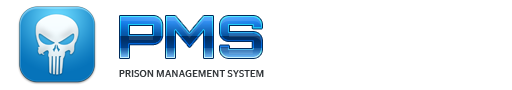
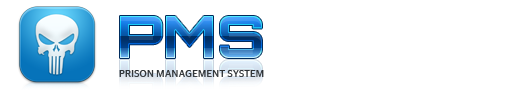
such commit very code
WOW

Changed region(s): [[0.2188, 0.6444, 0.5312, 0.8889], [0.0625, 0.9111, 0.1562, 0.9333]]

diff --git a/diningwindow.cpp b/diningwindow.cpp
@@ -10,14 +10,6 @@ DiningWindow::DiningWindow(QWidget *parent) :
     ui->pushButton_Menu->setChecked(true);
     ui->stackedWidget->setCurrentIndex(0);
 
-    /*QSqlDatabase db = Database::getDatabase();
-
-    QSqlQueryModel *model = new QSqlQueryModel;
-    model->setQuery("SELECT ID AS ID, Lastname AS \"Last name\", Midname AS \"Middle name\", Firstname as \"First name\", "
-                    "Gender AS Gender, DOB AS DOB, Hair AS \"Hair color\", Eyes AS \"Eye color\", "
-                    "Eth AS \"Ethnicity\", Addr AS \"Home address\", Reason AS Reason, Custody AS Custody, "
-                    "Availability AS Availability, BookIn AS Bookin, BookOut AS Bookout FROM INMATE", db);
-    ui->tableView->setModel(model);*/
     on_pushButton_Menu_clicked();
     curView = VIEW_MENU;
     ui->pushSearch->setEnabled(true);
@@ -34,12 +26,6 @@ void DiningWindow::on_pushButton_viewInmates_clicked(bool checked)
 {
     ui->stackedWidget->setCurrentIndex(0);
     QSqlDatabase db = Database::getDatabase();
-/*
-    QSqlTableModel *model = new QSqlTableModel(this, db);
-    model->setTable("INMATE");
-    model->select();
-    ui->tableView->setModel(model);
-*/
 
     QSqlQueryModel *model = new QSqlQueryModel;
     model->setQuery("SELECT ID AS 'ID', Lastname AS 'Last name', Midname AS 'Middle name', Firstname as 'First name', "
@@ -62,10 +48,6 @@ void DiningWindow::on_pushButton_viewOfficers_clicked(bool checked)
 {
     ui->stackedWidget->setCurrentIndex(0);
     QSqlDatabase db = Database::getDatabase();
-
-    /*QSqlQueryModel *model = new QSqlQueryModel;
-    model->setQuery("SELECT * FROM OFFICER", db);
-    ui->tableView->setModel(model);*/
 
     QSqlQueryModel *model = new QSqlQueryModel;
     model->setQuery("SELECT * FROM OFFICER", db);
@@ -147,11 +129,9 @@ void DiningWindow::on_pushButton_4_clicked()
 
 void DiningWindow::on_pushButton_Add_clicked()
 {
-    // model->insertRow(model->rowCount());
     newmenuform * menu = new newmenuform(0, 0);
     connect(menu, &newmenuform::exec_query, this, &DiningWindow::exec_query);
     menu->setWindowFlags(Qt::MSWindowsFixedSizeDialogHint);
-    //connect(menu, &newmenuform::exec_query, this, &DiningWindow::exec_query);
     menu->show();
 }
 
@@ -166,7 +146,6 @@ void DiningWindow::on_pushButton_Modify_clicked()
     newmenuform * menu = new newmenuform(0, 1, ID);
     connect(menu, &newmenuform::exec_query, this, &DiningWindow::exec_query);
     menu->setWindowFlags(Qt::MSWindowsFixedSizeDialogHint);
-    //connect(menu, &newmenuform::exec_query, this, &DiningWindow::exec_query);
     menu->show();
 }
 
@@ -224,8 +203,6 @@ void DiningWindow::on_Delete_clicked()
     QSqlQuery query(db);
     QString Squery = "DELETE FROM DINING WHERE ID = '" + ID + "'";
     query.exec(Squery);
-
-    //qDebug() << Squery;
 
     query.exec("INSERT INTO LOG (department, logtime, content) VALUES ('Dining', "
             "CAST(N'" + QDateTime::currentDateTime().toString("yyyy-MM-dd hh:mm") + "' AS Datetime), "

diff --git a/rehabform.cpp b/rehabform.cpp
@@ -47,16 +47,8 @@ void RehabForm::on_pushAdd_clicked()
 
 void RehabForm::on_pushDelete_clicked()
 {
-   /* model->removeRow(ui->tableView->currentIndex().row());
-    QSqlQuery satan_approves;
-    QString log = "INSERT INTO LOG (department, logtime, content) VALUES ('Rehabilitation', "
-            "CAST(N'" + QDateTime::currentDateTime().toString("yyyy-MM-dd hh:mm") + "' AS Datetime), "
-            "N'Record deleted.')";
-    satan_approves.prepare(log);
-    satan_approves.exec();*/
-
     QMessageBox::StandardButton reply;
-      reply = QMessageBox::question(this, "Delete", "Are you sure you want to delete this line?",
+      reply = QMessageBox::question(this, "Delete", "Are you sure you want to delete this entry?",
                                     QMessageBox::Yes|QMessageBox::No);
       if (reply == QMessageBox::Yes)
       {
@@ -70,7 +62,10 @@ void RehabForm::on_pushDelete_clicked()
 
           QSqlQuery query(db);
           query.exec("DELETE FROM REHABILITATION WHERE InmateID = '" + IDInm + "'");
-
+          QString log = "INSERT INTO LOG (department, logtime, content) VALUES ('Rehabilitation', "
+                  "CAST(N'" + QDateTime::currentDateTime().toString("yyyy-MM-dd hh:mm") + "' AS Datetime), "
+                  "N'Record deleted.')";
+          query.exec(log);
           on_pushButton_16_clicked();
       }
 }
@@ -148,11 +143,10 @@ void RehabForm::execQuery(QString Squery)
 
     on_pushButton_16_clicked();
 
-    /*QSqlQuery satan_approves(db);
-    QString log = "INSERT INTO LOG (department, logtime, content) VALUES ('Dining', "
+    QString log = "INSERT INTO LOG (department, logtime, content) VALUES ('Rehabilitation', "
             "CAST(N'" + QDateTime::currentDateTime().toString("yyyy-MM-dd hh:mm") + "' AS Datetime), "
-            "N'Record added.')";
-    //satan_approves.exec(log);*/
+            "N'Record changed.')";
+    query.exec(log);
 }
 
 void RehabForm::on_tableView_clicked(const QModelIndex &index)

diff --git a/mainwindow.cpp b/mainwindow.cpp
@@ -154,17 +154,14 @@ void MainWindow::SetPermission(int OfficerType)
 
 void MainWindow::on_toolButton_Dashboard_clicked()
 {
-    //qDebug() << "Dashboard";
     if (sub_dashboard == NULL) {
         if (m_OfficerType == RELATIVETYPE)
         {
             dashboard = new DashboardWindow(0, true, m_ID);
-            //qDebug() << "Is releative " + m_ID;
         }
         else
         {
             dashboard = new DashboardWindow(0, false);
-            //qDebug() << "Is not relative";
         }
         sub_dashboard = ui->mdiArea->addSubWindow(dashboard, Qt::FramelessWindowHint);
         dashboard->showMaximized();
@@ -265,4 +262,20 @@ void MainWindow::details_closed()
 
 void MainWindow::echo_status(QString content) {
     ui->statusBar->showMessage(content, 5000);
+}
+
+void MainWindow::on_pushButton_clicked()
+{
+    ui->frame->setStyleSheet("QFrame { background-image: url(:/images/banner_ee.png);"
+                             "background-repeat:no-repeat; }");
+    ui->graphicsView->setStyleSheet("border-image: url(:/images/doge.jpeg);"
+                                    "border-radius: 5px;");
+}
+
+void MainWindow::on_pushButton_2_clicked()
+{
+    ui->frame->setStyleSheet("QFrame { background-image: url(:/images/banner.png);"
+                             "background-repeat:no-repeat; }");
+    ui->graphicsView->setStyleSheet("border-image: url(:/images/generic_user.jpg);"
+                                    "border-radius: 5px;");
 }

diff --git a/healthcarewindow.cpp b/healthcarewindow.cpp
@@ -17,9 +17,6 @@ HealthcareWindow::HealthcareWindow(QWidget *parent) :
     ui->stackedWidget->setCurrentIndex(0);
 
     QSqlDatabase db = Database::getDatabase();
-//    model = new QSqlTableModel(this, db);
-//    model->setTable("MEDCHECKS");
-//    model->select();
 
     on_pushButton_HealthRecord_clicked();
 
@@ -152,8 +149,6 @@ void HealthcareWindow::on_pushAccept_clicked()
             + "', '" + ui->date->text() + " " + ui->time->text().left(ui->time->text().size() - 3)
             + "', NULL, NULL, N'" + ui->remarks->toPlainText() + "')";
 
-    qDebug() << QSQuery;
-
     query.exec(QSQuery);
 
     query.exec("INSERT INTO LOG (department, logtime, content) VALUES ('Healthcare', "
@@ -181,7 +176,6 @@ void HealthcareWindow::on_pushButton_HealthRecord_clicked()
                     "`medchecks`.`Urgency` AS `Urgency`, "
                     "`medchecks`.`Condi` AS `Inmate health condition`, "
                     "`medchecks`.`Remarks` AS `Remarks` FROM `pms`.`medchecks`;";
-    qDebug() << query;
 
     qmodel->setQuery(query, db);
 
@@ -221,8 +215,6 @@ void HealthcareWindow::on_pushButton_19_clicked()
                     "`medchecks`.`Condi` AS `Inmate health condition`, "
                     "`medchecks`.`Remarks` AS `Remarks` FROM `pms`.`medchecks` "
                     "WHERE `medchecks`.`Urgency` = N'High';";
-
-    qDebug() << query;
 
     qmodel->setQuery(query, db);
 

diff --git a/newinmateform.cpp b/newinmateform.cpp
@@ -76,7 +76,6 @@ void newinmateform::on_pushButton_4_clicked()
            if(image.isNull())
            {
                QMessageBox::critical(this, "Error", "Failed to display image!");
-               // return;
            }
            QGraphicsScene* scene = new QGraphicsScene();
            QPixmap* item = new QPixmap(QPixmap::fromImage(image));
@@ -100,7 +99,6 @@ void newinmateform::on_pushButton_2_clicked()
                 "N'" + ui->txtEth->text() +"', N'" + ui->txtAddress->text() +"', N'" + ui->txtReason->text() +"', "
                 "N'" + ui->txtCustody->text() +"', N'" + ui->cmbAvailable->currentText() + "' ,CAST(N'" + ui->deBookin->text() + "' AS Datetime), "
                 "CAST(N'" + ui->deBookout->text() + "' AS Datetime));";
-        //qDebug() << query;
     }
     else if (mode == 1)
     {
@@ -114,7 +112,6 @@ void newinmateform::on_pushButton_2_clicked()
                 "WHERE `ID` = N'" + workingID + "';";
     }
     emit add_new_inmate(query);
-    qDebug() << query;
     this->close();
 }
 

diff --git a/entryreleaseform.cpp b/entryreleaseform.cpp
@@ -44,7 +44,6 @@ void EntryReleaseForm::on_pushButton_3_clicked()
 
 void EntryReleaseForm::on_pushButton_2_clicked()
 {
-    // model->insertRow(model->rowCount());
     newinmateform* nif = new newinmateform(0, 0, 0);
     connect(nif, &newinmateform::add_new_inmate, this, &EntryReleaseForm::add_inmate_triggered);
     nif->setWindowFlags(Qt::MSWindowsFixedSizeDialogHint);

diff --git a/mainwindow.h b/mainwindow.h
@@ -49,6 +49,10 @@ private slots:
 
     void echo_status(QString content);
 
+    void on_pushButton_clicked();
+
+    void on_pushButton_2_clicked();
+
 private:
     Ui::MainWindow *ui;
 
